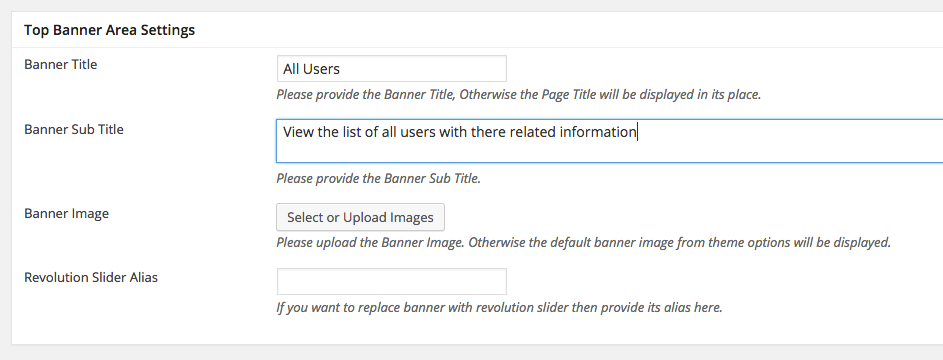
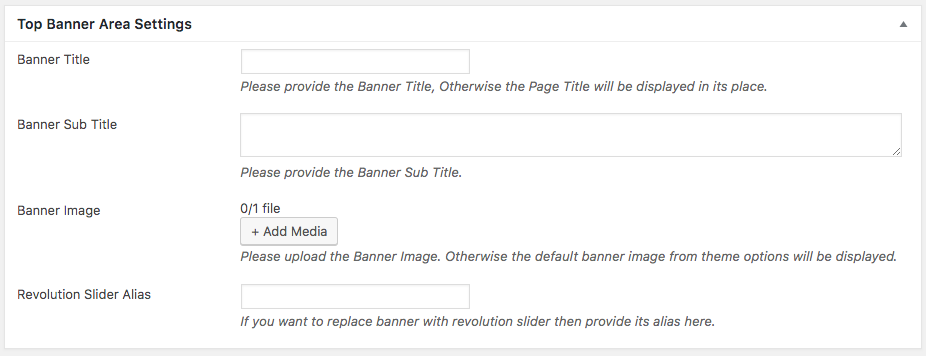
various pages docs combined

diff --git a/docs/contact-page.md b/docs/contact-page.md
@@ -16,7 +16,11 @@ Select the **Contact** as template from page attributes.
 
 Provide the top banner related information 
 
-![Contact Banner Settings](images/contact-page/contact-banner-settings.png)
+**Classic**
+![Banner Area Settings](images/create-pages/users-banner-area-settings.png)
+
+**Modern**
+![Banner Area Settings](images/create-pages/users-banner-area-settings-mod.png)
 
 Publish the page once it is ready.
 
@@ -31,6 +35,12 @@ Next step is to configure **Contact Page** settings.
 Navigate to **Dashboard → Real Homes → Customize Settings** and look for **Various Pages** panel, In this panel look for **Contact Page** section and explore all the available settings in this section to configure Contact page.
 
 ![Various Pages](images/contact-page/various-pages.png) ![Various Pages Panel](images/contact-page/various-pages-panel.png)
+
+### Header Variation
+
+![show/hide banner](images/single-property-page/banner-display.png)
+
+> note: **Header Variation** option is available in **Modern** Variation only.
 
 ### Google Map
 

diff --git a/docs/add-full-width-page.md b/docs/add-full-width-page.md
@@ -16,9 +16,13 @@ Go to **Dashboard → Pages → Add New**
 
 ![Full Width Content](images/create-pages/full-width-content.png)
 
-- Provide the top banner related information 
+- Provide the top banner related information
 
-![Full Width Banner Area Settings](images/create-pages/full-width-banner-settings.png)
+**Classic**
+![Banner Area Settings](images/create-pages/users-banner-area-settings.png)
+
+**Modern**
+![Banner Area Settings](images/create-pages/users-banner-area-settings-mod.png)
 
 - Publish the page once it is ready.
 

diff --git a/docs/add-gallery-page.md b/docs/add-gallery-page.md
@@ -23,3 +23,11 @@ There are 3 templates for gallery page.
 After publishing you need to add the newly created page in menu from **Dashboard → Appearance → Menus**. 
 
 ![Add Gallery Page to Menu](images/create-pages/add-gallery-page-menu.png)
+
+Provide information related to top banner.
+
+**Classic**
+![Banner Area Settings](images/create-pages/users-banner-area-settings.png)
+
+**Modern**
+![Banner Area Settings](images/create-pages/users-banner-area-settings-mod.png)

diff --git a/docs/add-users-page.md b/docs/add-users-page.md
@@ -12,7 +12,11 @@ Select the **Users List** from page attributes.
 
 Provide information related to top banner.
 
+**Classic**
 ![Banner Area Settings](images/create-pages/users-banner-area-settings.png)
+
+**Modern**
+![Banner Area Settings](images/create-pages/users-banner-area-settings-mod.png)
 
 Publish the page once it is ready.
 
